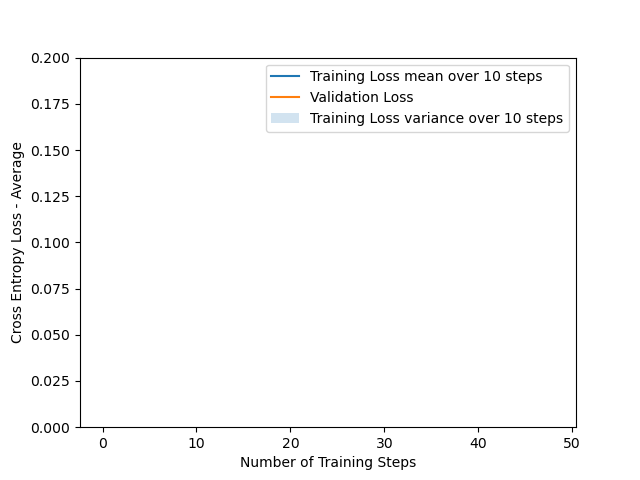
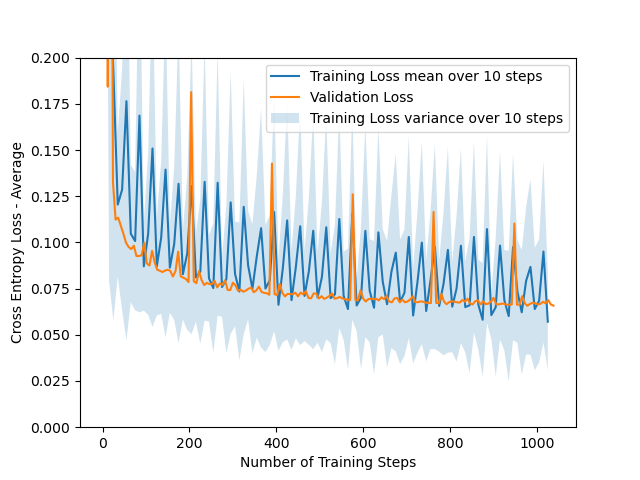
finito

diff --git a/Øving 1/assignment1/task2.py b/Øving 1/assignment1/task2.py
@@ -16,11 +16,9 @@ def calculate_accuracy(X: np.ndarray, targets: np.ndarray, model: BinaryModel) -
         Accuracy (float)
     """
     # TODO Implement this function (Task 2c)
-
     outputs = model.forward(X)
     accuracy = np.count_nonzero((outputs >= 0.5) == targets)/X.shape[0]
 
-    accuracy = correct_validations/targets.shape[0]
     return accuracy
 
 
@@ -46,8 +44,6 @@ class LogisticTrainer(BaseTrainer):
         self.model.w -= self.learning_rate * self.model.grad
 
         loss = cross_entropy_loss(Y_batch, Outputs)
-
-        loss = cross_entropy_loss(Y_batch, outputs)
         return loss
 
     def validation_step(self):
@@ -73,7 +69,7 @@ class LogisticTrainer(BaseTrainer):
 
 if __name__ == "__main__":
     # hyperparameters DO NOT CHANGE IF NOT SPECIFIED IN ASSIGNMENT TEXT
-    num_epochs = 50
+    num_epochs = 500
     learning_rate = 0.05
     batch_size = 128
     shuffle_dataset = False
@@ -127,34 +123,34 @@ if __name__ == "__main__":
     plt.savefig("task2b_binary_train_accuracy.png")
     plt.show()
 
-    # # Task 2e - Create a comparison between training with and without shuffling
-    # shuffle_dataset = True
-    # # Intialize model
-    # model = BinaryModel()
-    # # Train model
-    # trainer = LogisticTrainer(
-    #     model, learning_rate, batch_size, shuffle_dataset,
-    #     X_train, Y_train, X_val, Y_val,
-    # )
-    # train_history_shuffle, val_history_shuffle = trainer.train(num_epochs)
+    # Task 2e - Create a comparison between training with and without shuffling
+    shuffle_dataset = True
+    # Intialize model
+    model = BinaryModel()
+    # Train model
+    trainer = LogisticTrainer(
+        model, learning_rate, batch_size, shuffle_dataset,
+        X_train, Y_train, X_val, Y_val,
+    )
+    train_history_shuffle, val_history_shuffle = trainer.train(num_epochs)
 
-    # plt.ylim([0., .2])
-    # utils.plot_loss(train_history["loss"],
-    #                 "Training Loss", npoints_to_average=10)
-    # utils.plot_loss(
-    #     train_history_shuffle["loss"], "Training Loss with shuffle", npoints_to_average=10)
-    # plt.legend()
-    # plt.xlabel("Number of Training Steps")
-    # plt.ylabel("Cross Entropy Loss - Average")
-    # plt.savefig("task2e_train_loss_with_shuffle.png")
-    # plt.show()
+    plt.ylim([0., .2])
+    utils.plot_loss(train_history["loss"],
+                    "Training Loss", npoints_to_average=10)
+    utils.plot_loss(
+        train_history_shuffle["loss"], "Training Loss with shuffle", npoints_to_average=10)
+    plt.legend()
+    plt.xlabel("Number of Training Steps")
+    plt.ylabel("Cross Entropy Loss - Average")
+    plt.savefig("task2e_train_loss_with_shuffle.png")
+    plt.show()
 
-    # plt.ylim([0.93, .99])
-    # utils.plot_loss(val_history["accuracy"], "Validation Accuracy")
-    # utils.plot_loss(
-    #     val_history_shuffle["accuracy"], "Validation Accuracy with shuffle")
-    # plt.xlabel("Number of Training Steps")
-    # plt.ylabel("Accuracy")
-    # plt.legend()
-    # plt.savefig("task2e_train_accuracy_shuffle_difference.png")
-    # plt.show()
+    plt.ylim([0.93, .99])
+    utils.plot_loss(val_history["accuracy"], "Validation Accuracy")
+    utils.plot_loss(
+        val_history_shuffle["accuracy"], "Validation Accuracy with shuffle")
+    plt.xlabel("Number of Training Steps")
+    plt.ylabel("Accuracy")
+    plt.legend()
+    plt.savefig("task2e_train_accuracy_shuffle_difference.png")
+    plt.show()

diff --git a/Øving 1/assignment1/trainer.py b/Øving 1/assignment1/trainer.py
@@ -14,7 +14,7 @@ class BaseTrainer:
             shuffle_dataset: bool,
             X_train: np.ndarray, Y_train: np.ndarray,
             X_val: np.ndarray, Y_val: np.ndarray,
-            early_stopping=False) -> None:
+            early_stopping=True) -> None:
         """
             Initialize the trainer responsible for performing the gradient descent loop.
         """
@@ -74,8 +74,8 @@ class BaseTrainer:
             accuracy={}
         )
 
-        last_val_loss = np.ones(10) #Keeps track of last 10 val_loss values
-
+        stop_index = 0
+        lowest_val = np.inf
         global_step = 0
 
         for epoch in range(num_epochs):
@@ -94,42 +94,16 @@ class BaseTrainer:
                     val_history["accuracy"][global_step] = accuracy_val
 
                     # TODO (Task 2d): Implement early stopping here.
-                    # last_val_losses = np.append(last_val_losses[1:], val_loss.copy())
-                    # #print(np.abs(np.mean(np.diff(last_val_losses))))
-                    # if np.abs(np.mean(np.diff(last_val_losses))) < 10**(-6) and last_val_losses[0] != 1:
-                    #     print("stopped training after", epoch, "epochs.")
-                    #     return train_history, val_history
-                    loss_array = [i[1] for i in
-                                 sorted(list(val_history["loss"].items()),
-                                        key=lambda x: x[0])]
-            
-                    if (self.early_stopping
-                        and len(loss_array) >= 10
-                        and np.count_nonzero(np.diff(loss_array[-10-1:]) > 0)):
-                        #and not any([i < loss_array[-stop_num - 1]
-                        #             for i in loss_array[-stop_num:]])):
-
-                        print(f'finished after {epoch} epochs')
+                    # You can access the validation loss in val_history["loss"]
+                    if val_loss < lowest_val:
+                        stop_index = 0
+                        lowest_val = val_loss
+                    
+                    if stop_index >= 10:
+                        print("early stop after", epoch, "epochs.")
                         return train_history, val_history
                         
-                    
-                    # You can access the validation loss in val_history["loss"]
-                    
-                    #Adds last val_loss value and removes first
-                    last_val_loss = np.append(last_val_loss[1:], val_loss.copy())
-                    
-
-                    loss_values = [pair[1] for pair in
-                                 sorted(list(val_history["loss"].items()),
-                                        key=lambda x: x[0])]
-
-                    # if(len(loss_values) >= 10):
-                    #     if any(np.diff(loss_values[-10:]) < 0):
-                    #         print(loss_values)
-                    #         print("Stopped after ", epoch, " epochs")
-                    #         return train_history, val_history
-
-
+                    stop_index += 1
 
                 global_step += 1
 

diff --git a/Øving 1/assignment1/task3.py b/Øving 1/assignment1/task3.py
@@ -17,7 +17,9 @@ def calculate_accuracy(X: np.ndarray, targets: np.ndarray, model: SoftmaxModel) 
         Accuracy (float)
     """
     # TODO: Implement this function (task 3c)
-    accuracy = 0
+    outputs = model.forward(X)
+    correct_predictions = np.count_nonzero(np.argmax(outputs, axis=1) == np.argmax(targets, axis=1))
+    accuracy = correct_predictions/X.shape[0]
     return accuracy
 
 
@@ -36,7 +38,11 @@ class SoftmaxTrainer(BaseTrainer):
             loss value (float) on batch
         """
         # TODO: Implement this function (task 3b)
-        loss = 0
+        Outputs = self.model.forward(X_batch)
+        self.model.backward(X_batch, Outputs, Y_batch)
+        self.model.w -= self.learning_rate * self.model.grad
+        loss = cross_entropy_loss(Y_batch, Outputs)
+
         return loss
 
     def validation_step(self):
@@ -65,7 +71,7 @@ if __name__ == "__main__":
     num_epochs = 50
     learning_rate = 0.01
     batch_size = 128
-    l2_reg_lambda = 0
+    l2_reg_lambda = 1
     shuffle_dataset = True
 
     # Load dataset
@@ -113,23 +119,23 @@ if __name__ == "__main__":
     plt.savefig("task3b_softmax_train_accuracy.png")
     plt.show()
 
-    # Train a model with L2 regularization (task 4b)
+    # # Train a model with L2 regularization (task 4b)
 
-    model1 = SoftmaxModel(l2_reg_lambda=1.0)
-    trainer = SoftmaxTrainer(
-        model1, learning_rate, batch_size, shuffle_dataset,
-        X_train, Y_train, X_val, Y_val,
-    )
-    train_history_reg01, val_history_reg01 = trainer.train(num_epochs)
-    # You can finish the rest of task 4 below this point.
+    # model1 = SoftmaxModel(l2_reg_lambda=1.0)
+    # trainer = SoftmaxTrainer(
+    #     model1, learning_rate, batch_size, shuffle_dataset,
+    #     X_train, Y_train, X_val, Y_val,
+    # )
+    # train_history_reg01, val_history_reg01 = trainer.train(num_epochs)
+    # # You can finish the rest of task 4 below this point.
 
-    # Plotting of softmax weights (Task 4b)
-    #plt.imsave("task4b_softmax_weight.png", weight, cmap="gray")
+    # # Plotting of softmax weights (Task 4b)
+    # #plt.imsave("task4b_softmax_weight.png", weight, cmap="gray")
 
-    # Plotting of accuracy for difference values of lambdas (task 4c)
-    l2_lambdas = [1, .1, .01, .001]
-    plt.savefig("task4c_l2_reg_accuracy.png")
+    # # Plotting of accuracy for difference values of lambdas (task 4c)
+    # l2_lambdas = [1, .1, .01, .001]
+    # plt.savefig("task4c_l2_reg_accuracy.png")
 
-    # Task 4d - Plotting of the l2 norm for each weight
+    # # Task 4d - Plotting of the l2 norm for each weight
 
-    plt.savefig("task4d_l2_reg_norms.png")
+    # plt.savefig("task4d_l2_reg_norms.png")

diff --git a/Øving 1/assignment1/task3a.py b/Øving 1/assignment1/task3a.py
@@ -12,20 +12,22 @@ def cross_entropy_loss(targets: np.ndarray, outputs: np.ndarray):
     Returns:
         Cross entropy error (float)
     """
-    # TODO implement this function (Task 3a)
+    # DONE implement this function (Task 3a)
     assert targets.shape == outputs.shape,\
         f"Targets shape: {targets.shape}, outputs: {outputs.shape}"
-    raise NotImplementedError
+
+    C = -np.sum(targets*np.log(outputs), axis=1)
+    return np.mean(C)
 
 
 class SoftmaxModel:
 
     def __init__(self, l2_reg_lambda: float):
         # Define number of input nodes
-        self.I = None
+        self.I = 785
 
         # Define number of output nodes
-        self.num_outputs = None
+        self.num_outputs = 10
         self.w = np.zeros((self.I, self.num_outputs))
         self.grad = None
 
@@ -38,8 +40,9 @@ class SoftmaxModel:
         Returns:
             y: output of model with shape [batch size, num_outputs]
         """
-        # TODO implement this function (Task 3a)
-        return None
+        # DONE implement this function (Task 3a)
+        
+        return np.exp(X @ self.w) / np.sum(np.exp(X @ self.w), axis = 1)[:,None]
 
     def backward(self, X: np.ndarray, outputs: np.ndarray, targets: np.ndarray) -> None:
         """
@@ -50,7 +53,7 @@ class SoftmaxModel:
             outputs: outputs of model of shape: [batch size, num_outputs]
             targets: labels/targets of each image of shape: [batch size, num_classes]
         """
-        # TODO implement this function (Task 3a)
+        # DONE implement this function (Task 3a)
         # To implement L2 regularization task (4b) you can get the lambda value in self.l2_reg_lambda 
         # which is defined in the constructor.
         assert targets.shape == outputs.shape,\
@@ -58,6 +61,11 @@ class SoftmaxModel:
         self.grad = np.zeros_like(self.w)
         assert self.grad.shape == self.w.shape,\
              f"Grad shape: {self.grad.shape}, w: {self.w.shape}"
+
+        grads = (np.dot(-X.T, (targets - outputs)) +
+                2*self.l2_reg_lambda*self.w) #this term is due to l2 reg
+                
+        self.grad = grads/X.shape[0]   #Averaging all gradients
 
     def zero_grad(self) -> None:
         self.grad = None
@@ -71,7 +79,8 @@ def one_hot_encode(Y: np.ndarray, num_classes: int):
     Returns:
         Y: shape [Num examples, num classes]
     """
-    raise NotImplementedError
+    one_hot = np.array([ [1 if i == target else 0 for i in range(num_classes)] for target in Y ])
+    return one_hot
 
 
 def gradient_approximation_test(model: SoftmaxModel, X: np.ndarray, Y: np.ndarray):

diff --git a/Øving 1/assignment1/utils.py b/Øving 1/assignment1/utils.py
@@ -25,7 +25,9 @@ def batch_loader(
         num_batches = int(np.ceil(len(X) / batch_size))
     indices = list(range(len(X)))
 
-    # TODO (task 2e) implement dataset shuffling here.
+    # DONE (task 2e) implement dataset shuffling here.
+    if shuffle:
+        np.random.shuffle(indices)
 
     for i in range(num_batches):
         # select a set of indices for each batch of samples

diff --git a/Øving 1/assignment1/task2a.py b/Øving 1/assignment1/task2a.py
@@ -77,7 +77,6 @@ class BinaryModel:
             f"Grad shape: {self.grad.shape}, w: {self.w.shape}"
 
         grads = np.dot(-X.T, (targets - outputs))
-
         self.grad = grads/X.shape[0]   #Averaging all gradients
 
 
